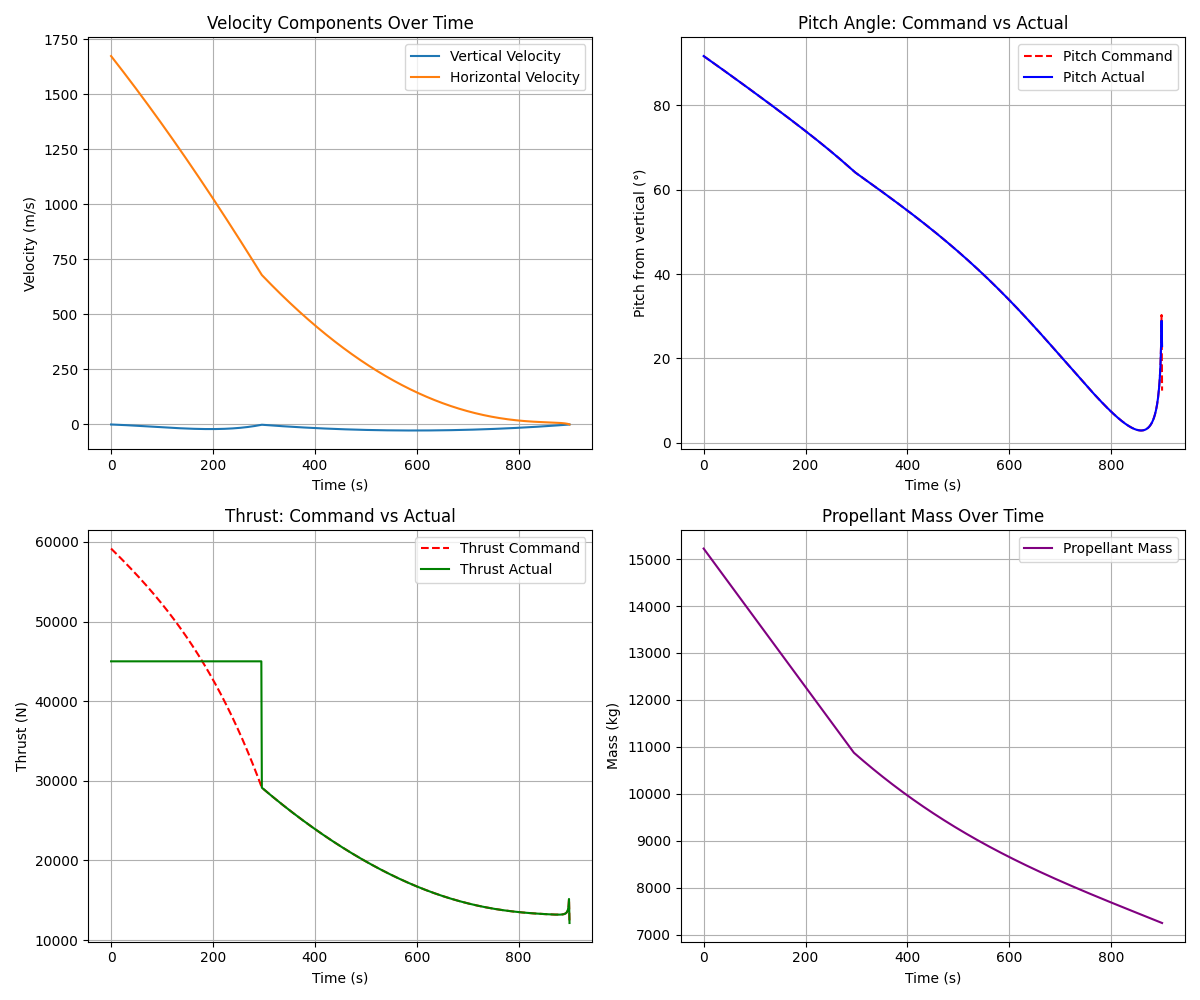
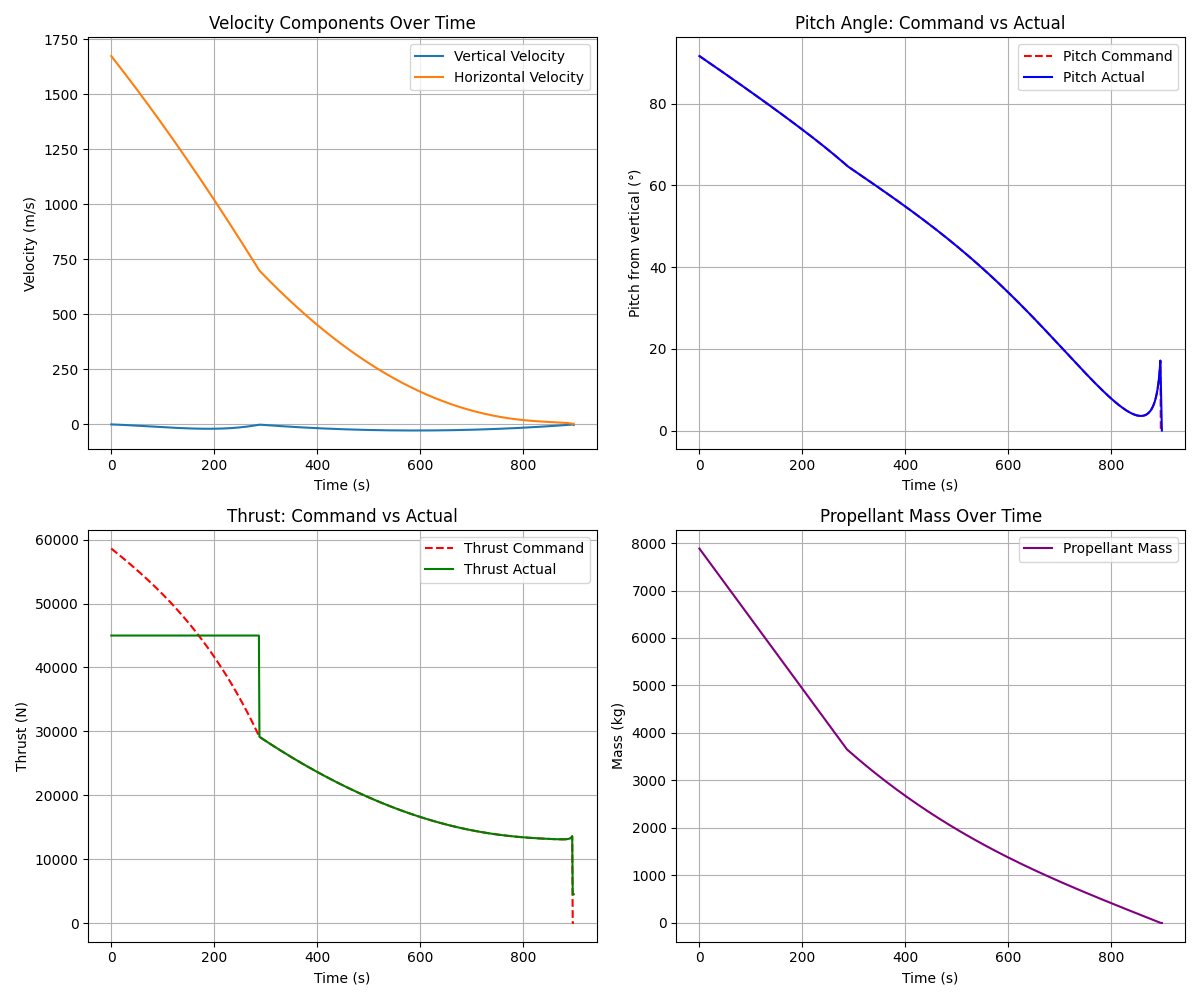
Updated mass to not be both descent and ascent and treat ascent as 'dry mass'.

diff --git a/main.py b/main.py
@@ -11,6 +11,7 @@ import matplotlib.pyplot as plt
 r_moon = env.r_moon
 mu = env.mu
 m0 = env.m0
+m_empty = env.m_empty
 
 # --- Initial Conditions (From Apollo 11 Event B) ---
 S0 = [14_878 + r_moon, 0, 0, np.sqrt(mu / (r_moon + 14_878)) / (r_moon + 14_878), m0]
@@ -81,6 +82,6 @@ vis.telemetry(
     T_cmd_hist,
     alpha_ctrl_hist,
     T_ctrl_hist,
-    S_hist[:, -1],
+    S_hist[:, -1] - m_empty,
 )
 plt.show()

diff --git a/environment.py b/environment.py
@@ -8,7 +8,8 @@ mu = G * m_moon  # m^3/s^2
 # --- Vehicle Constants ---
 T_max = 45_000  # N
 Isp = 311  # s
-m0 = 15_240  # kg
-m_empty = 4_280  # kg
+m_empty = 7_201  # kg
+m_prop0 = 7_899  # kg
+m0 = m_prop0 + m_empty  # kg
 alpha0 = 0  # rad
 dalpha_max = 0.10472  # rad/s
